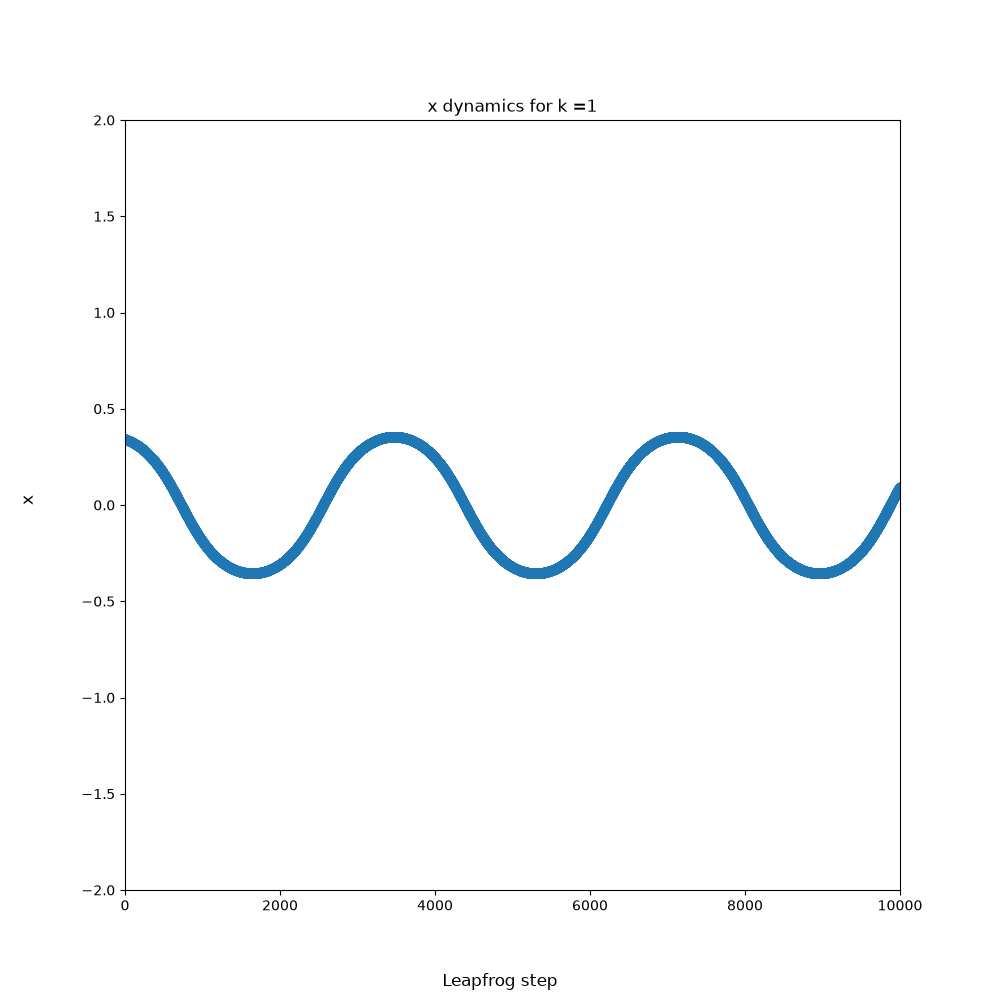
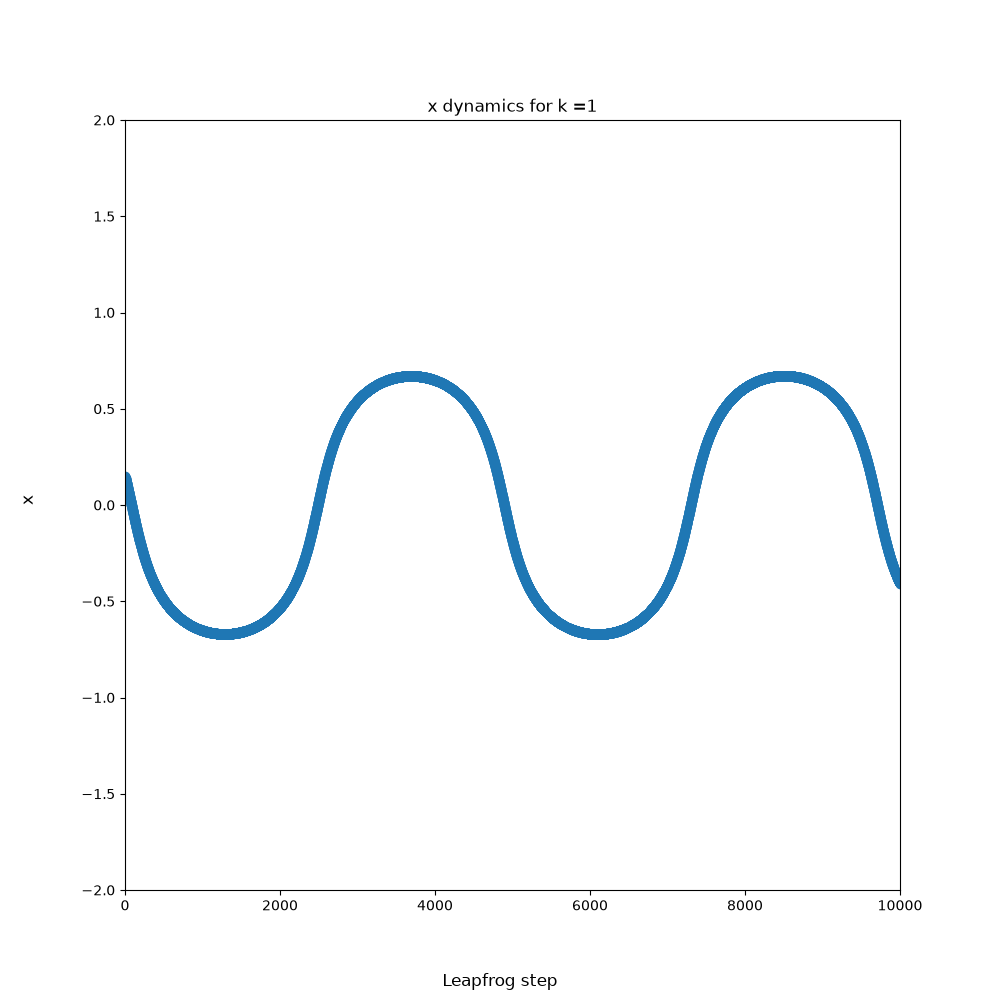
update

diff --git a/RMHMCanimate.py b/RMHMCanimate.py
@@ -201,77 +201,77 @@ def RMHMC(L = 10000,
             # print("Broke for p iteration", l," count=", count)
             p_stars.append(p_star)
             for_animation_p[l] = [p_star, l]
+            ()
+            # x convergence
+            x_current = x_star
+            x_guess = x_star
+            x_star = 0
+            count = 1
+            while count < max_iter:
+                #("Count=",count)
+                count = count+1
+                if count == max_iter:
+                    print("Hit max iterations")
+                #     break
+                #("Middle step iter[",l,"] x_star is :", x_star)
+                #("Using p_star", p_star)
+                x_star = x_current + 0.5*eps\
+                            *(p_star/M(x_current,k,lam,d)+p_star/M(x_guess,k,lam,d))
+                # print("Change", 0.5*eps\
+                #             *(p_star*M(x_current,k,lam,d)+p_star*M(x_guess,k,lam,d)) )
+                #("x_star=", x_star)
+                if x_star > 1e14:
+                    print("BROKE x_star too big")
+                    break
+                elif x_star < -1e14:
+                    print("BROKE x_star too big -ve")
+                    break
+                elif abs(x_star - x_guess) < tol:
+                    #("STOPPING while loop for x_star")
+                    break
+                else:
+                    x_guess = x_star
+                #()
+            ("Moving on from middle step iter[",l,"] with x_star", x_star)
+            #("Broke for x iteration", l," count=", count)
+            x_stars.append(x_star)
+            V_x.append(an_V(x_star,k,lam))  
+            for_animation_x[l] = [x_stars[-1],l]
+            # print(for_animation_x)
+        #()
+        # Compute the final step of the leapfrog method
+        p_current = p_star
+        p_guess = p_star
+        count = 0
+        while count < max_iter:
+            #("Count=",count)
+            count = count+1
+            if count == max_iter:
+                            print("Hit max iterations")
+                            p_star = p_current - 0.5*eps*\
+                                                    ((k*x_star + lam*x_star**3 \
+                                                                 + 0.5*p_guess**2*(G(x_star,k,lam))*6*lam*x_star)/(M(x_star, k, lam, d))**2 \
+                                                            + 0.5*(6*lam*x_star)\
+                                                                  /M(x_star,k, lam, d))
+            #("p_star is :", p_star)
+            #("p_guess is", p_guess)
+            #("Difference in ps:", abs(p_star - p_guess))
+            if p_star > 1e14:
+                print("BROKE p_star too big")
+                break
+            else:
+                if p_star < -1e14:
+                    print("BROKE p_star too big -ve")
+                    break
+                else:
+                    if abs(p_star - p_guess) < tol:
+                        break
+                    else:
+                        p_guess = p_star
             #()
-    #         # x convergence
-    #         x_current = x_star
-    #         x_guess = x_star
-    #         x_star = 0
-    #         count = 1
-    #         while count < max_iter:
-    #             #("Count=",count)
-    #             count = count+1
-    #             if count == max_iter:
-    #                 print("Hit max iterations")
-    #             #     break
-    #             #("Middle step iter[",l,"] x_star is :", x_star)
-    #             #("Using p_star", p_star)
-    #             x_star = x_current + 0.5*eps\
-    #                         *(p_star/M(x_current,k,lam,d)+p_star/M(x_guess,k,lam,d))
-    #             # print("Change", 0.5*eps\
-    #             #             *(p_star*M(x_current,k,lam,d)+p_star*M(x_guess,k,lam,d)) )
-    #             #("x_star=", x_star)
-    #             if x_star > 1e14:
-    #                 print("BROKE x_star too big")
-    #                 break
-    #             elif x_star < -1e14:
-    #                 print("BROKE x_star too big -ve")
-    #                 break
-    #             elif abs(x_star - x_guess) < tol:
-    #                 #("STOPPING while loop for x_star")
-    #                 break
-    #             else:
-    #                 x_guess = x_star
-    #             #()
-    #         ("Moving on from middle step iter[",l,"] with x_star", x_star)
-    #         #("Broke for x iteration", l," count=", count)
-    #         x_stars.append(x_star)
-    #         V_x.append(an_V(x_star,k,lam))  
-    #         for_animation_x[l] = [x_stars[-1],l]
-    #         # print(for_animation_x)
-    #     #()
-    #     # Compute the final step of the leapfrog method
-    #     p_current = p_star
-    #     p_guess = p_star
-    #     count = 0
-    #     while count < max_iter:
-    #         #("Count=",count)
-    #         count = count+1
-    #         if count == max_iter:
-    #                         print("Hit max iterations")
-    #                         p_star = p_current - 0.5*eps*\
-    #                                                 ((k*x_star + lam*x_star**3 \
-    #                                                              + 0.5*p_guess**2*(G(x_star,k,lam))*6*lam*x_star)/(M(x_star, k, lam, d))**2 \
-    #                                                         + 0.5*(6*lam*x_star)\
-    #                                                               /M(x_star,k, lam, d))
-    #         #("p_star is :", p_star)
-    #         #("p_guess is", p_guess)
-    #         #("Difference in ps:", abs(p_star - p_guess))
-    #         if p_star > 1e14:
-    #             print("BROKE p_star too big")
-    #             break
-    #         else:
-    #             if p_star < -1e14:
-    #                 print("BROKE p_star too big -ve")
-    #                 break
-    #             else:
-    #                 if abs(p_star - p_guess) < tol:
-    #                     break
-    #                 else:
-    #                     p_guess = p_star
-    #         #()
-    #         for_animation_x[L] = [x_stars[-1],L]
-    #         for_animation_p[L] = [p_stars[-1],L]
-    #         x.append(x_star)
+            for_animation_x[L] = [x_stars[-1],L]
+            for_animation_p[L] = [p_stars[-1],L]
+            x.append(x_star)
         # Compute the acceptance ratio
         r = np.exp(-H(x_star, p_star,k, lam, d) + H(x[t], p,k,lam, d))
         exps_delH.append(r)
@@ -358,13 +358,13 @@ def RMHMC(L = 10000,
 #             tol = 1e-12,
 #             d = 1e-6)[0])
 
-results_pos = RMHMC(L = 100,
-            eps = 0.1,
-            k = 1,
-            lam = 1,
-            n = 100,
-            tol = 1e-12,
-            d = 0.1)
+results_pos = RMHMC(L=10000,
+                  eps = 0.001, 
+                  k = 1,
+                  lam = 1,
+                  n=10,
+                  tol = 1e-12,
+                  d = 0.1)
 
 # results_neg = RMHMC(L = 10000,
 #                 eps = 1e-8,
@@ -373,10 +373,10 @@ results_pos = RMHMC(L = 100,
 #                 n = 100,
 #                 tol = 1e-12,
 #                 d = 0.1)
-k = 1
-lam = 1
-n = 1000
-d = 0.1 
+# k = 1
+# lam = 1
+# n = 100
+# d = 0.1 
 # print("Expected x =", mean_and_sd((results_pos[0]),n, k, lam, d)[0],\
 #       "Standardised standard deviation of x=",mean_and_sd(((results_pos)[0]),n, k, lam, d)[1]) 
 #     #    "Expected KE = ",mean_and_sd(results[1]),n, 1e-6)[0], \
@@ -393,20 +393,20 @@ d = 0.1
 # print()
 # k = -0.1
 # print(results_neg[4])
-print("Expected x =", mean_and_sd((results_pos[0]),n, k, lam, d)[0],\
-      "Standardised standard deviation of x=",mean_and_sd(((results_pos)[0]),n,k, lam,d)[1]) ,\
-    #    "Expected KE = ",mean_and_sd(results[1]),n, 1e-6)[0], \
-    #    "Standardised standard deviation of KE = ",mean_and_sd((RMHMC(L,eps,1,1,1e-6,n,1e-6)[1]),n, 1e-6)[1],\
-    #    "Expected PE =", mean_and_sd((RMHMC(L,eps,1,1,1e-6,n,1e-6)[2]),n, 1e-6)[0],\
-    #    "Standardised standard deviation of PE = ", mean_and_sd((RMHMC(L,eps,1,1,1e-6,n,1e-6)[2]),n, 1e-6)[1],\
-print(     "Expected exp(-delH)= " ,mean_and_sd((results_pos[3]),n,k, lam,d)[0],\
-       "Standardised standard deviation of exp(-delH) = ", mean_and_sd((results_pos[3]),n, k, lam, d)[1])
-print("Expected error in p =", mean_and_sd((results_pos[4]),n, k, lam, d)[0],\
-        "Standardised standard deviation of error in p=", mean_and_sd((results_pos[4]),n, k, lam, d)[1],\
-        "Expected error in x=", mean_and_sd((results_pos[5]),n, k, lam, d)[0],\
-        "Standardised standard deviation of error in x=", mean_and_sd((results_pos[5]),n, k, lam, d)[1],\
-         "Acceptance ratio =" ,results_pos[6]) 
-# # Store the results from running the RMHMC alg
+# print("Expected x =", mean_and_sd((results_pos[0]),n, k, lam, d)[0],\
+#       "Standardised standard deviation of x=",mean_and_sd(((results_pos)[0]),n,k, lam,d)[1]) ,\
+#     #    "Expected KE = ",mean_and_sd(results[1]),n, 1e-6)[0], \
+#     #    "Standardised standard deviation of KE = ",mean_and_sd((RMHMC(L,eps,1,1,1e-6,n,1e-6)[1]),n, 1e-6)[1],\
+#     #    "Expected PE =", mean_and_sd((RMHMC(L,eps,1,1,1e-6,n,1e-6)[2]),n, 1e-6)[0],\
+#     #    "Standardised standard deviation of PE = ", mean_and_sd((RMHMC(L,eps,1,1,1e-6,n,1e-6)[2]),n, 1e-6)[1],\
+# print(     "Expected exp(-delH)= " ,mean_and_sd((results_pos[3]),n,k, lam,d)[0],\
+#        "Standardised standard deviation of exp(-delH) = ", mean_and_sd((results_pos[3]),n, k, lam, d)[1])
+# print("Expected error in p =", mean_and_sd((results_pos[4]),n, k, lam, d)[0],\
+#         "Standardised standard deviation of error in p=", mean_and_sd((results_pos[4]),n, k, lam, d)[1],\
+#         "Expected error in x=", mean_and_sd((results_pos[5]),n, k, lam, d)[0],\
+#         "Standardised standard deviation of error in x=", mean_and_sd((results_pos[5]),n, k, lam, d)[1],\
+#          "Acceptance ratio =" ,results_pos[6]) 
+# Store the results from running the RMHMC alg
 # results_1 = RMHMC(L=10000,
 #                   eps = 0.001, 
 #                   k = 1,
@@ -451,7 +451,7 @@ print("Expected error in p =", mean_and_sd((results_pos[4]),n, k, lam, d)[0],\
 # ax.set_title("x dynamics for k =1")
 # ax.scatter(x_anim_1, y_anim_1)
 # fig.savefig("RMHMC_ani_set_1.png")
-# # trace_1, = ax.plot([],[])
+# trace_1, = ax.plot([],[])
 
 # # # Functions for the dynamics
 # # def init():
@@ -664,3 +664,4 @@ print("Expected error in p =", mean_and_sd((results_pos[4]),n, k, lam, d)[0],\
 # print("p starting=", results[8])
 # # print("x in leapfrog=",results[6])
 # # print("p in leapfrog=",results[7])
+
